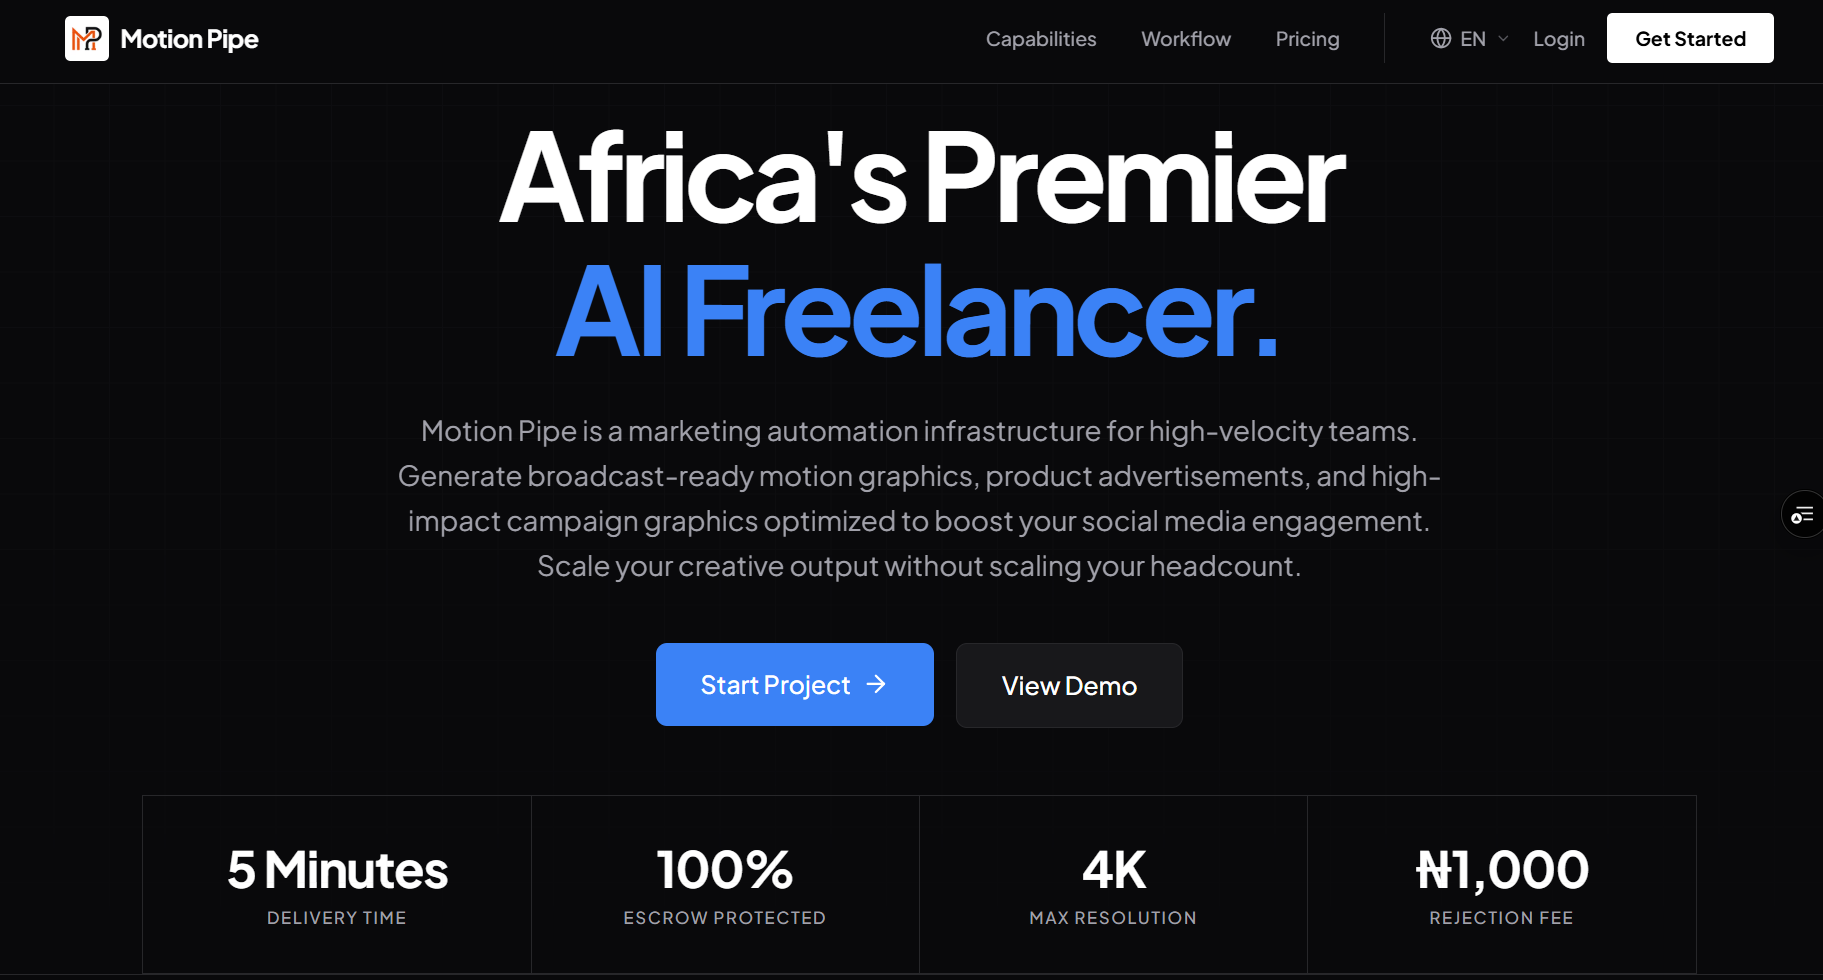
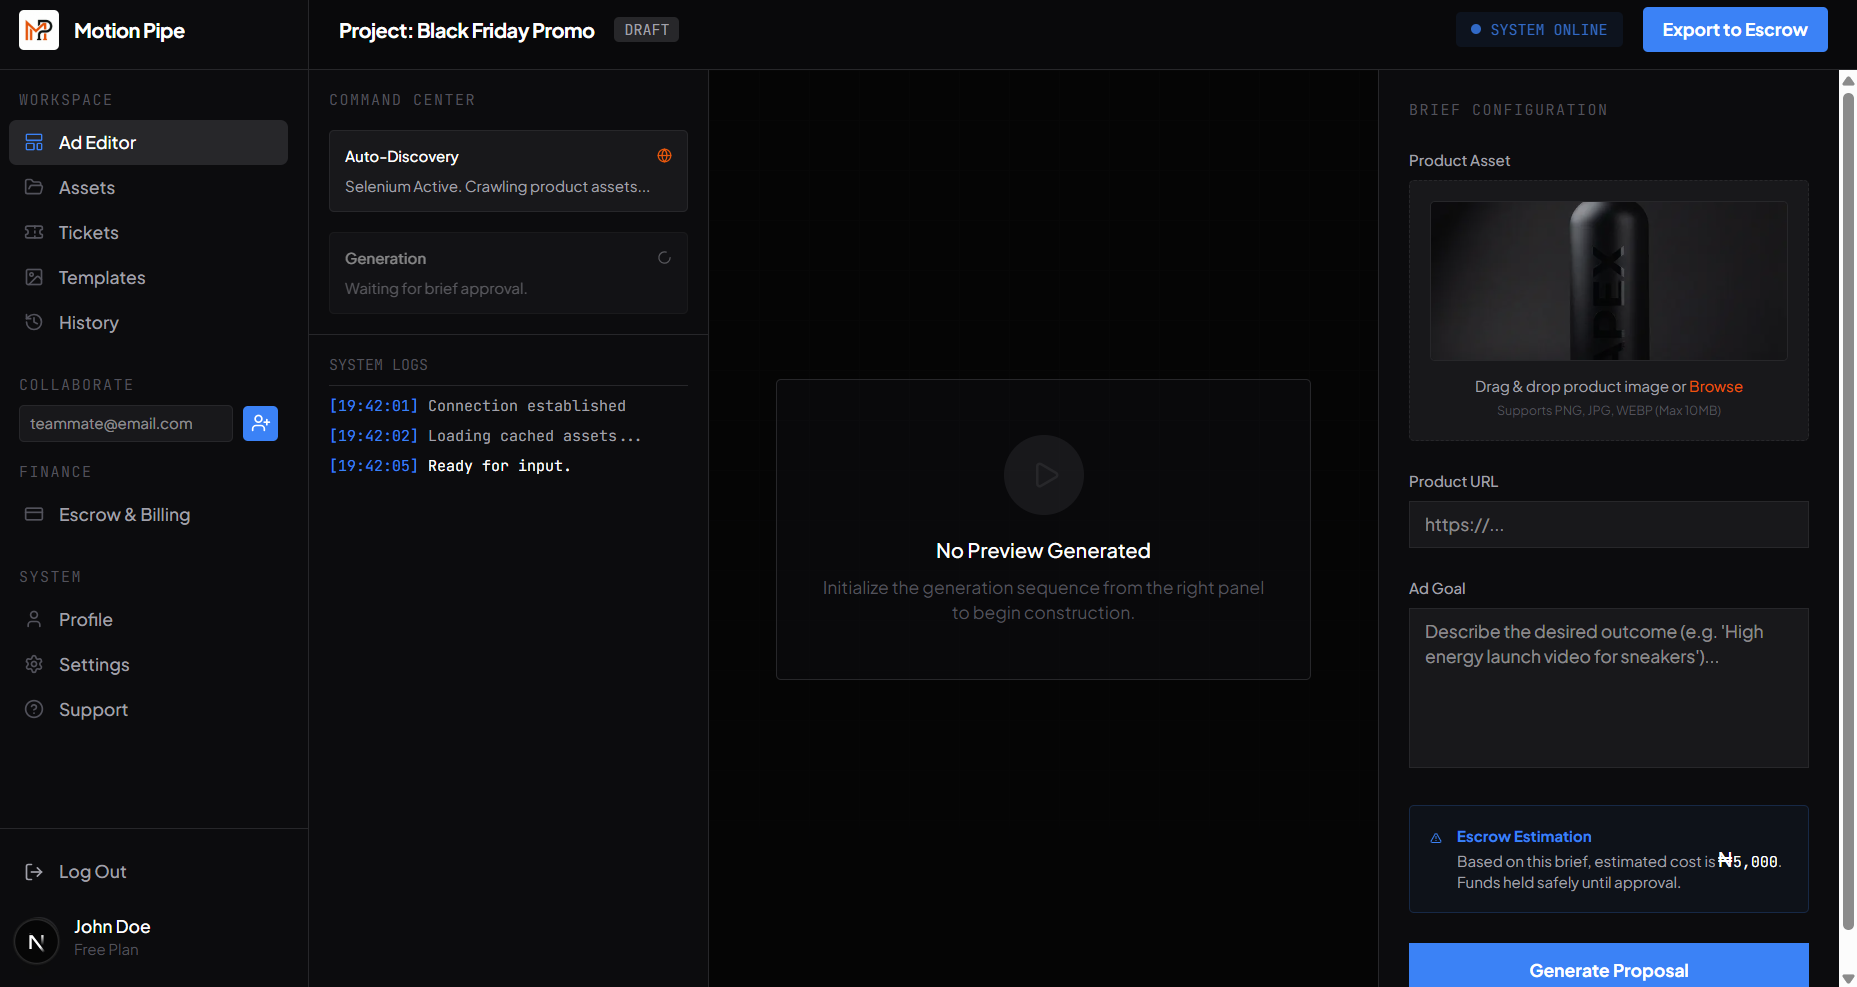
chore: update code

diff --git a/app/page.tsx b/app/page.tsx
@@ -1,25 +1,21 @@
 "use client";
 
 import Image from "next/image";
-import Link from "next/link";
 import { useState } from "react";
+import { SocialIcon } from 'react-social-icons'
 import {
   FileText,
-  Linkedin,
-  Twitter,
-  PenTool,
   FolderOpen,
   GitMerge,
   Star,
   User,
-  CheckCircle2,
   Rocket,
   Cpu,
   ShieldCheck,
   Server,
   Hand,
   Briefcase,
-  Code2
+  Code2,
 } from "lucide-react";
 
 export default function Home() {
@@ -38,7 +34,7 @@ export default function Home() {
       role: "System Architect",
       desc: "AI-Driven Marketing Orchestration SaaS",
       tech: ["Golang", "AI/ML", "Concurrency"],
-      color: "bg-[#4B0082]",
+      color: "bg-[#2563EB]",
     },
     {
       title: "Nexus Botix",
@@ -52,8 +48,15 @@ export default function Home() {
       role: "Co-Architect",
       desc: "Fintech Creator Payout Infrastructure",
       tech: ["Paystack", "BullMQ", "Prisma"],
-      color: "bg-[#064E3B]",
-    },
+      color: "bg-[#7C3AED]",
+    },];
+
+  const creations = [
+    { id: 1, image: "/motion-pipe.png" },
+    { id: 2, image: "/motion-pipe.png" },
+    { id: 3, image: "/motion-pipe.png" },
+    { id: 4, image: "/motion-pipe.png" },
+    { id: 5, image: "/motion-pipe.png" },
   ];
 
   // Split projects
@@ -77,40 +80,32 @@ export default function Home() {
         <div className="flex items-center gap-4">
           <button
             onClick={() => setIsResumeOpen(true)}
-            className="hidden md:flex items-center gap-2 text-sm font-medium hover:opacity-70 transition border border-gray-200 px-4 py-2 rounded-full"
+            className="flex items-center gap-2 text-sm font-medium hover:opacity-70 transition border border-gray-200 px-4 py-2 rounded-full"
             aria-label="View Resume"
           >
             <FileText className="w-4 h-4" /> VIEW RESUME
           </button>
 
           <div className="flex gap-2">
-            <Link
-              href="https://linkedin.com/in/samuel-tuoyo-8568b62b6"
+            <SocialIcon
+              url="https://linkedin.com/in/samuel-tuoyo-8568b62b6"
               target="_blank"
-              rel="noopener noreferrer"
-              aria-label="LinkedIn"
-              className="w-10 h-10 bg-[#0077b5] text-white rounded-lg flex items-center justify-center hover:scale-105 transition"
-            >
-              <Linkedin className="w-5 h-5 fill-current" />
-            </Link>
-            <Link
-              href="https://twitter.com/yourusername"
+              style={{ height: 40, width: 40 }}
+              className="hover:scale-110 transition-transform"
+            />
+            <SocialIcon
+              url="https://x.com/TuoyoS26091"
+              network="x"
               target="_blank"
-              rel="noopener noreferrer"
-              aria-label="Twitter"
-              className="w-10 h-10 bg-black text-white rounded-lg flex items-center justify-center hover:scale-105 transition"
-            >
-              <Twitter className="w-4 h-4 fill-current" />
-            </Link>
-            <Link
-              href="https://medium.com/@yourusername"
+              style={{ height: 40, width: 40 }}
+              className="hover:scale-110 transition-transform"
+            />
+            <SocialIcon
+              url="https://medium.com/@samueltuoyo9082"
               target="_blank"
-              rel="noopener noreferrer"
-              aria-label="Medium"
-              className="w-10 h-10 bg-gray-800 text-white rounded-lg flex items-center justify-center hover:scale-105 transition"
-            >
-              <PenTool className="w-5 h-5" />
-            </Link>
+              style={{ height: 40, width: 40 }}
+              className="hover:scale-110 transition-transform"
+            />
           </div>
         </div>
       </nav>
@@ -168,11 +163,49 @@ export default function Home() {
         </div>
       </main>
 
+      {/* Snapshot of my creations */}
+      <section className="w-full mb-24 overflow-hidden">
+        <div className="w-full max-w-6xl mx-auto px-4 mb-12 pt-8">
+          <div className="relative inline-block">
+            <h2 className="text-4xl md:text-6xl font-handwriting text-gray-400 -rotate-2">
+              Snapshot of my creations
+              {/* Custom Arrow */}
+              <svg className="absolute -bottom-10 -right-20 w-24 h-24 text-gray-300 rotate-12 hidden md:block" viewBox="0 0 200 100" fill="none" stroke="currentColor" strokeWidth="2">
+                <path d="M20 20 C 80 10, 120 40, 100 80" strokeLinecap="round" className="animate-pulse" />
+                <path d="M90 70 L 100 80 L 115 75" strokeLinecap="round" strokeLinejoin="round" />
+              </svg>
+            </h2>
+          </div>
+        </div>
+
+        <div className="w-full overflow-x-auto pb-12 hide-scrollbar px-4 md:px-0 scroll-smooth [&::-webkit-scrollbar]:hidden [-ms-overflow-style:'none'] [scrollbar-width:'none']">
+          <div className="flex gap-6 md:gap-8 px-4 md:px-20 w-max mx-auto">
+            {creations.map((item, idx) => (
+              <div
+                key={idx}
+                className="relative w-[280px] md:w-[320px] h-[550px] md:h-[650px] flex-shrink-0 rounded-[2.5rem] overflow-hidden shadow-[0_20px_50px_-12px_rgba(0,0,0,0.3)] transition-all duration-500 hover:-translate-y-4 hover:shadow-[0_30px_60px_-12px_rgba(0,0,0,0.4)] bg-gray-100 border-[8px] border-white group"
+              >
+                <div className="absolute inset-0 bg-gray-200 animate-pulse group-hover:animate-none"></div>
+                <Image
+                  src={item.image}
+                  alt={`Creation ${item.id}`}
+                  fill
+                  className="object-cover transition-transform duration-700 group-hover:scale-105"
+                />
+
+                {/* Overlay reflection effect */}
+                <div className="absolute inset-0 bg-gradient-to-tr from-white/20 to-transparent opacity-0 group-hover:opacity-100 transition-opacity pointer-events-none"></div>
+              </div>
+            ))}
+          </div>
+        </div>
+      </section>
+
       {/* Selected Work Experience */}
       <section className="w-full max-w-6xl px-4 mb-24">
-        <div className="flex items-center gap-4 mb-8">
-          <h2 className="text-2xl font-handwriting text-gray-500 -rotate-2">Selected Work Experience</h2>
-          <Briefcase className="w-8 h-8 text-gray-400 rotate-12" />
+        <div className="flex items-center gap-4 mb-12">
+          <h2 className="text-4xl md:text-6xl font-handwriting text-gray-500 -rotate-2">Selected Work Experience</h2>
+          <Briefcase className="w-8 h-8 md:w-12 md:h-12 text-gray-400 rotate-12" />
         </div>
 
         <div className="grid grid-cols-1 md:grid-cols-2 lg:grid-cols-2 gap-6">
@@ -211,15 +244,14 @@ export default function Home() {
 
       {/* Selected Personal Projects */}
       <section className="w-full max-w-6xl px-4 mb-24">
-        <div className="flex items-center gap-4 mb-8">
-          <h2 className="text-2xl font-handwriting text-gray-500 -rotate-2">Technical Innovations</h2>
-          <PenTool className="w-8 h-8 text-gray-400 rotate-12" />
+        <div className="flex items-center gap-4 mb-12">
+          <h2 className="text-4xl md:text-6xl font-handwriting text-gray-500 -rotate-2">Technical Innovations</h2>
         </div>
 
         <div className="grid grid-cols-1 md:grid-cols-2 lg:grid-cols-2 gap-6">
           {otherProjects.map((project, i) => (
-            <div key={i} className={`group relative rounded-3xl overflow-hidden shadow-lg h-96 bg-white border border-gray-100 transition hover:-translate-y-1`}>
-              <div className="h-48 relative overflow-hidden">
+            <div key={i} className={`group relative rounded-3xl overflow-hidden shadow-lg h-[30rem] bg-white border border-gray-100 transition hover:-translate-y-1`}>
+              <div className="h-64 relative overflow-hidden">
                 <Image
                   src={project.title === "Happr" ? "/happr.png" : "/motion-pipe.png"}
                   alt={project.title}
@@ -229,7 +261,7 @@ export default function Home() {
                 <div className="absolute inset-0 bg-black/10"></div>
               </div>
 
-              <div className={`p-6 flex flex-col justify-between h-48 ${project.color} text-white`}>
+              <div className={`p-6 flex flex-col justify-between h-56 ${project.color} text-white`}>
                 <div>
                   <div className="flex justify-between items-start mb-2">
                     <h3 className="text-xl font-bold font-serif">{project.title}</h3>
@@ -331,6 +363,15 @@ export default function Home() {
           <div className="absolute -top-4 left-1/2 -translate-x-1/2 w-32 h-8 bg-yellow-200/80 -rotate-2 shadow-sm"></div>
           <div className="absolute top-10 -right-4 w-8 h-24 bg-yellow-200/80 rotate-3 shadow-sm"></div>
 
+          {/* Laptop Polaroid */}
+          <div className="absolute -top-12 -right-2 md:-right-12 w-52 h-52 bg-white p-3 shadow-xl transform rotate-6 border border-gray-200 z-20 hidden md:block transition hover:scale-110 hover:rotate-0 duration-300">
+            <div className="relative w-full h-full bg-gray-800 overflow-hidden filter sepia-[.2]">
+              <Image src="/laptop.jpg" alt="My Workstation" fill className="object-cover" />
+            </div>
+            {/* Tape */}
+            <div className="absolute -top-4 left-1/2 -translate-x-1/2 w-6 h-16 bg-[#eecd86] opacity-90 shadow-sm transform -rotate-2"></div>
+          </div>
+
           <div className="flex flex-col md:flex-row gap-8">
             <div className="w-full md:w-1/3">
               <div className="bg-white p-3 shadow-md -rotate-3 border border-gray-100">
@@ -348,22 +389,42 @@ export default function Home() {
 
             <div className="w-full md:w-2/3">
               <p className="text-gray-700 leading-loose font-serif text-lg mb-6">
-                Hi, My name is <strong className="text-black">Samuel Oritseweyinmi Tuoyo</strong>. I'm a Backend Software Engineer with years of experience crafting high-performance digital systems.
+                Hi, My name is <strong className="text-black">Samuel Tuoyo</strong>. I'm a Backend Software Engineer with years of experience crafting high-performance digital systems.
               </p>
               <p className="text-gray-600 mb-6 font-sans">
-                I focus on creating seamless APIs that solve real problems. When I'm not coding, you'll catch me exploring new tech, optimizing database queries, or enjoying quality time with family.
+                I focus on creating seamless APIs that solve real problems. When I'm not coding, you'll catch me exploring new tech, optimizing database queries.
               </p>
 
-              {/* Lined paper skills */}
-              <div className="bg-white border border-gray-200 p-6 shadow-inner relative mt-8" style={{ backgroundImage: "linear-gradient(#e5e7eb 1px, transparent 1px)", backgroundSize: "100% 2rem" }}>
-                <h4 className="font-bold mb-4 bg-white/80 inline-block px-2">My Skillsets include:</h4>
-                <ul className="space-y-4 pt-1 font-handwriting text-blue-700 text-lg">
-                  <li className="flex items-center gap-2"><CheckCircle2 className="w-5 h-5" /> NestJS & Node.js Architecture</li>
-                  <li className="flex items-center gap-2"><CheckCircle2 className="w-5 h-5" /> Microservices & RBAC Systems</li>
-                  <li className="flex items-center gap-2"><CheckCircle2 className="w-5 h-5" /> Payment Orchestration (Paystack)</li>
-                  <li className="flex items-center gap-2"><CheckCircle2 className="w-5 h-5" /> AWS & Docker Deployment</li>
-                  <li className="flex items-center gap-2"><CheckCircle2 className="w-5 h-5" /> Redis & Real-time Sync</li>
-                </ul>
+              {/* Realistic Paper Skills */}
+              <div className="relative mt-12 mb-8 mx-auto max-w-lg transform rotate-1 transition hover:rotate-0 duration-300">
+                {/* Tapes */}
+                <div className="absolute -top-3 -left-3 w-12 h-6 bg-[#eecd86]/90 shadow-sm transform -rotate-45 z-20"></div>
+                <div className="absolute -top-3 -right-3 w-12 h-6 bg-[#eecd86]/90 shadow-sm transform rotate-45 z-20"></div>
+                <div className="absolute -bottom-3 -left-3 w-12 h-6 bg-[#eecd86]/90 shadow-sm transform rotate-45 z-20"></div>
+                <div className="absolute -bottom-3 -right-3 w-12 h-6 bg-[#eecd86]/90 shadow-sm transform -rotate-45 z-20"></div>
+
+                {/* Paper Content */}
+                <div
+                  className="bg-[#fdfdfd] text-gray-800 p-8 shadow-xl relative z-10 font-handwriting text-2xl leading-relaxed"
+                  style={{
+                    backgroundImage: "repeating-linear-gradient(transparent, transparent 31px, #94a3b8 32px)",
+                    backgroundAttachment: "local"
+                  }}
+                >
+                  <h4 className="font-sans font-bold text-gray-900 text-lg mb-6 -mt-2">My Skillsets include:</h4>
+
+                  <ul className="space-y-1 list-none ml-2">
+                    <li className="flex items-center gap-3"><span className="text-green-600 font-bold text-xl">✓</span> NestJS & Node.js Architecture</li>
+                    <li className="flex items-center gap-3"><span className="text-green-600 font-bold text-xl">✓</span> Microservices & RBAC Systems</li>
+                    <li className="flex items-center gap-3"><span className="text-green-600 font-bold text-xl">✓</span> Payment Orchestration (Paystack)</li>
+                    <li className="flex items-center gap-3"><span className="text-green-600 font-bold text-xl">✓</span> AWS & Docker Deployment</li>
+                    <li className="flex items-center gap-3"><span className="text-green-600 font-bold text-xl">✓</span> Redis & Real-time Sync</li>
+                  </ul>
+
+                  <div className="mt-8 pt-4 border-t border-dashed border-gray-300/50 text-gray-500 text-xl">
+                    PS: check my <button onClick={() => setIsResumeOpen(true)} className="underline decoration-wavy decoration-red-400 text-gray-800 hover:text-red-500 font-bold cursor-pointer">resume</button> for more info.
+                  </div>
+                </div>
               </div>
             </div>
           </div>
